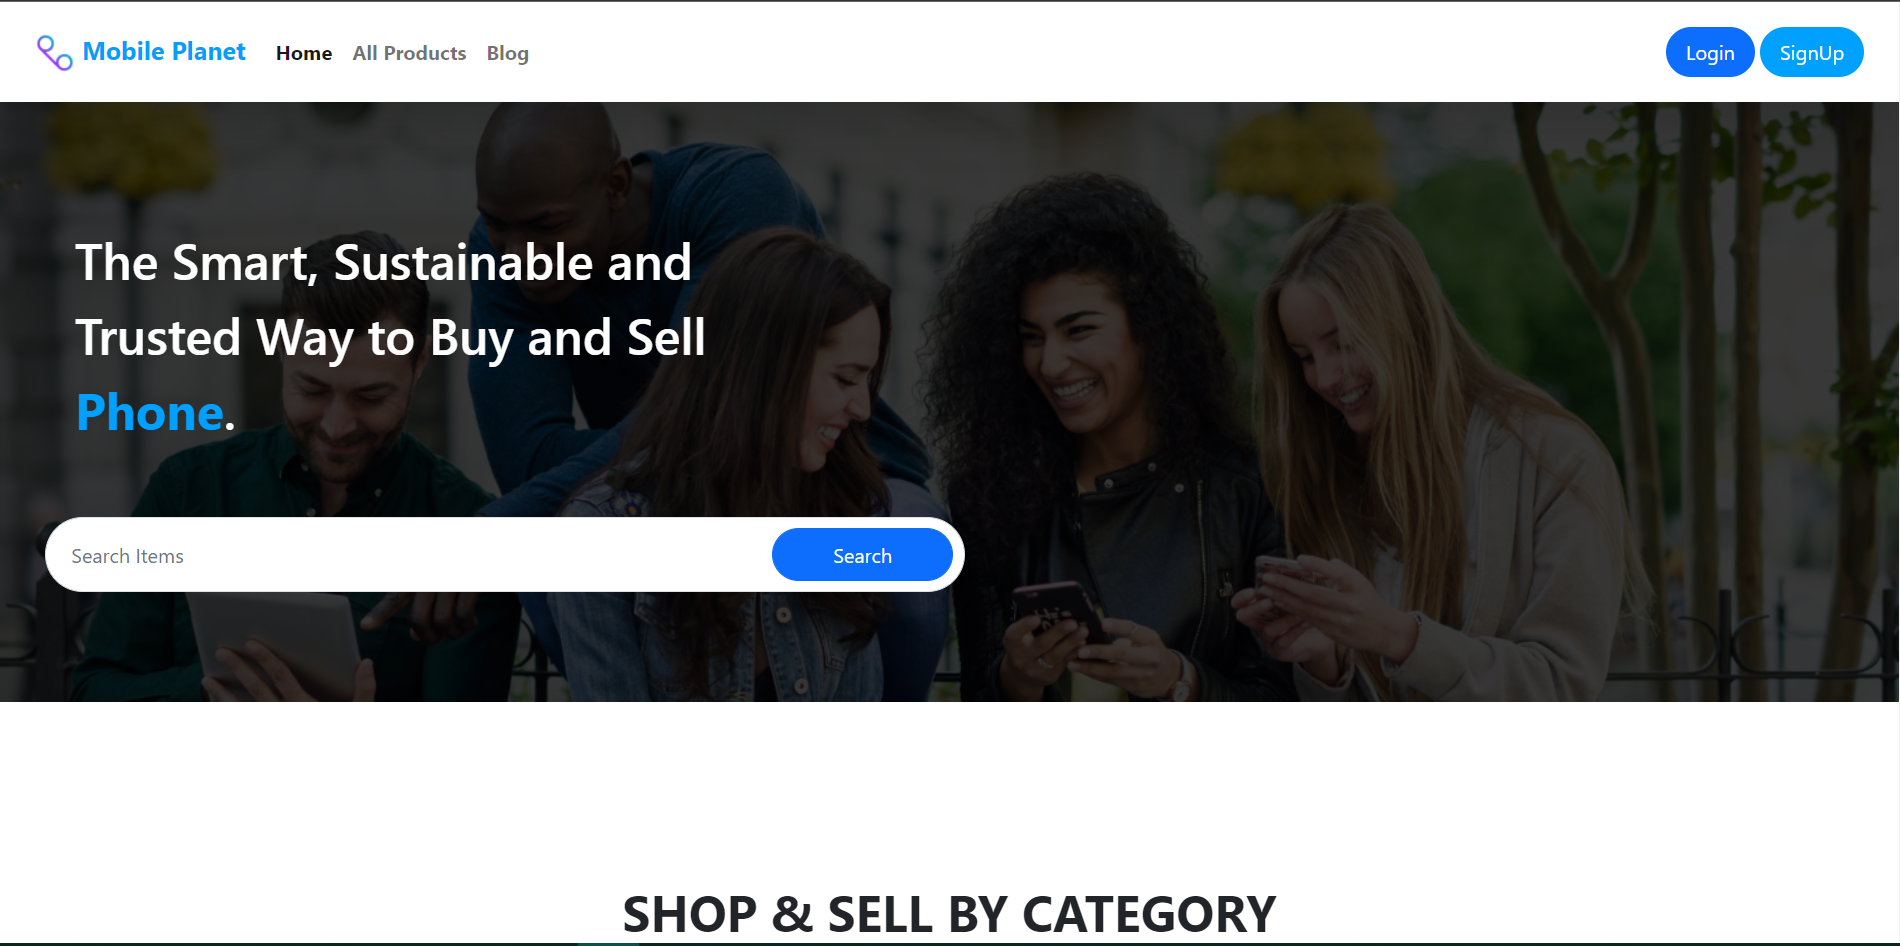
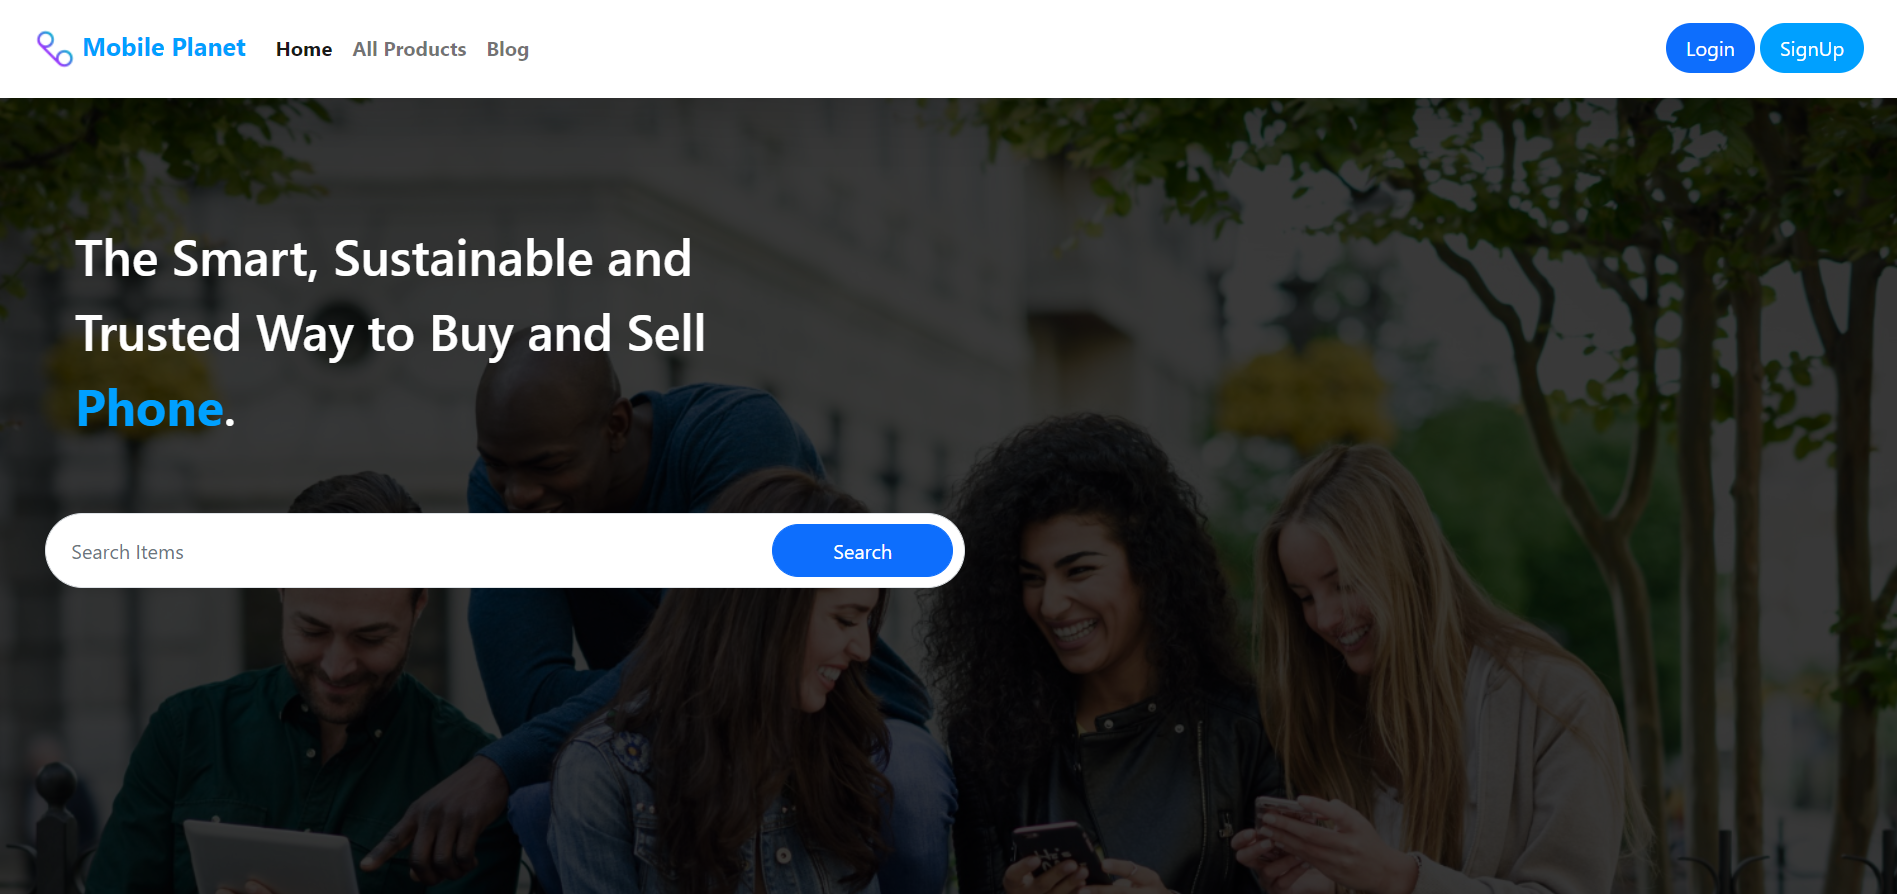
design and solved some issue
-downloads resume included
-design fixed

diff --git a/index.html b/index.html
@@ -28,11 +28,13 @@
         <link href="https://unpkg.com/aos@2.3.1/dist/aos.css" rel="stylesheet">
         <link href="https://cdn.jsdelivr.net/npm/bootstrap@5.2.3/dist/css/bootstrap.min.css" rel="stylesheet"
             integrity="sha384-rbsA2VBKQhggwzxH7pPCaAqO46MgnOM80zW1RWuH61DGLwZJEdK2Kadq2F9CUG65" crossorigin="anonymous">
+
+        <link rel="stylesheet" href="https://cdn.jsdelivr.net/npm/swiper@8/swiper-bundle.min.css" />
         <!-- Customized Bootstrap Stylesheet -->
         <link href="assets/css/style.css" rel="stylesheet">
     </head>
 
-    <body data-spy="scroll" data-target=".navbar" data-offset="51">
+    <body class="banner-2" data-spy="scroll" data-target=".navbar" data-offset="51">
         <!-- Navbar Start -->
         <nav class="navbar fixed-top shadow-sm navbar-expand-lg bg-light navbar-light py-3 py-lg-0 px-lg-5">
             <a href="index.html" class="navbar-brand ml-lg-3">
@@ -51,8 +53,8 @@
                     <a href="#blog" class="nav-item nav-link">Blog</a>
                     <a href="#contact" class="nav-item nav-link">Contact</a>
                 </div>
-                <a href="https://drive.google.com/file/d/1OmgMKl1av4iEBBBzHxZrmwiMk_CEa5ZL/view?usp=sharing"
-                    target="_blank" class="btn btn-outline-primary d-none d-lg-block">Download Resume</a>
+                <a href="https://drive.google.com/uc?export=download&id=1OmgMKl1av4iEBBBzHxZrmwiMk_CEa5ZL"
+                    class="btn btn-outline-primary d-none d-lg-block">Download Resume</a>
             </div>
         </nav>
         <!-- Navbar End -->
@@ -65,13 +67,13 @@
                     </div>
                     <div class=" col-lg-7 text-center text-lg-left" data-aos="fade-down" data-aos-duration="1000">
                         <h3 class="text-white font-weight-normal mb-3">I'm</h3>
-                        <h1 class="display-3 text-uppercase text-primary mb-2"
+                        <h1 class="display-3 text-uppercase text-warning mb-2"
                             style="-webkit-text-stroke: 2px #ffffff;">Pranto Chakraborty</h1>
                         <h1 class="typed-text-output d-inline font-weight-lighter text-white"></h1>
                         <div class="typed-text d-none">A Full-Stack Web Developer.....</div>
                         <div class="d-flex align-items-center justify-content-center justify-content-lg-start pt-5">
-                            <a href="https://drive.google.com/file/d/1OmgMKl1av4iEBBBzHxZrmwiMk_CEa5ZL/view?usp=sharing"
-                                target="_blank" class="btn btn-light border-primary mr-0 mr-lg-5">Download Resume</a>
+                            <a href="https://drive.google.com/uc?export=download&id=1OmgMKl1av4iEBBBzHxZrmwiMk_CEa5ZL"
+                                class="btn btn-light border-primary mr-0 mr-lg-5">Download Resume</a>
                             <a href="#contact" class="btn btn-outline-light d-none d-lg-block">Contact
                                 Me</a>
                         </div>
@@ -103,7 +105,7 @@
                                 of Greenwich
                             </strong> in 2021, which was a distance learning programme conducted by <strong
                                 class="text-primary">Daffodil
-                                International Academy</strong>. Well, I have been learning programming since my
+                                International Academy</strong>. Well, I have been programming since my
                             university life and
                             worked as a web developer (Internship) at <strong class="text-primary">MYBDHost</strong>
                             (April 2021 - June 2022). After that
@@ -127,8 +129,8 @@
                                 <h6>Current Position: <span class="text-secondary">Looking For Internship</span></h6>
                             </div>
                         </div>
-                        <a href="https://drive.google.com/file/d/1OmgMKl1av4iEBBBzHxZrmwiMk_CEa5ZL/view?usp=sharing"
-                            target="_blank" class="btn btn-outline-primary mr-4 mb-3 text-center">Download Resume</a>
+                        <a href="https://drive.google.com/uc?export=download&id=1OmgMKl1av4iEBBBzHxZrmwiMk_CEa5ZL"
+                            class="btn btn-outline-primary mr-4 mb-3 text-center">Download Resume</a>
                         <a href="#contact" class="btn btn-outline-primary mb-3">Contact Me</a>
                     </div>
                 </div>
@@ -473,19 +475,59 @@
 
         <!-- Project Modal -->
         <!-- Project Modal 1 -->
-        <div class="modal fade" id="project1" tabindex="-1" aria-labelledby="exampleModalLabel" aria-hidden="true">
-            <div class="modal-dialog">
+        <div class="modal fade rounded-lg" id="project1" tabindex="-1" data-bs-backdrop="static"
+            data-bs-keyboard="false" aria-labelledby="exampleModalLabel" aria-hidden="true">
+            <div class="modal-dialog modal-lg">
                 <div class="modal-content">
-                    <div class="modal-header">
-                        <h1 class="modal-title fs-5" id="exampleModalLabel">Modal title</h1>
-                        <button type="button" class="btn-close" data-bs-dismiss="modal" aria-label="Close"></button>
+                    <div class="modal-header bg-primary">
+                        <h1 class="modal-title fs-5 text-white" id="exampleModalLabel">Mobile Planet (Used product sell
+                            & buy service)</h1>
+                        <button type="button" class="btn-close " data-bs-dismiss="modal" aria-label="Close"><i
+                                class="fas fa-times text-white"></i></button>
                     </div>
                     <div class="modal-body">
-                        ng
+                        <div class="swiper mySwiper">
+                            <div class="swiper-wrapper">
+                                <div class="swiper-slide"><img src="assets/img/p-1.png" alt="" srcset=""></div>
+                                <div class="swiper-slide"><img src="assets/img/p-1-1.png" alt="" srcset=""></div>
+                                <div class="swiper-slide"><img src="assets/img/p-1-2.png" alt="" srcset=""></div>
+                            </div>
+                            <div class="swiper-button-next"></div>
+                            <div class="swiper-button-prev"></div>
+                            <div class="swiper-pagination"></div>
+                        </div>
+                        <div class="container">
+                            <div class="row">
+                                <div class="col-12 my-3">
+                                    <span class="badge bg-primary m-1">HTML</span>
+                                    <span class="badge bg-primary m-1">CSS</span>
+                                    <span class="badge bg-primary m-1">React</span>
+                                    <span class="badge bg-primary m-1">React-Bootstrap</span>
+                                    <span class="badge bg-primary m-1">MongoDB</span>
+                                    <span class="badge bg-primary m-1">Express JS</span>
+                                    <span class="badge bg-primary m-1">Rest API</span>
+                                    <span class="badge bg-primary m-1">Firebase</span>
+                                    <span class="badge bg-primary m-1">JWT</span>
+                                    <span class="badge bg-primary m-1">Stripe</span>
+                                    <span class="badge bg-primary m-1">Axios</span>
+                                    <span class="badge bg-primary m-1">React-router</span>
+                                    <span class="badge bg-primary m-1">React query</span>
+                                    <span class="badge bg-primary m-1">React hook form</span>
+                                </div>
+                                <hr />
+                                <div class="col-12 my-1">
+                                    <a href="" class="btn btn-outline-dark"><i class="fab fa-github"></i> Client
+                                        Side</a>
+                                    <a href="" class="btn btn-outline-dark"><i class="fab fa-github"></i> Server
+                                        Side</a>
+                                    <a href="" class="btn btn-outline-dark"><i class="fas fa-external-link-alt"></i>
+                                        Live Site</a>
+                                </div>
+                            </div>
+                        </div>
                     </div>
                     <div class="modal-footer">
                         <button type="button" class="btn btn-secondary" data-bs-dismiss="modal">Close</button>
-                        <button type="button" class="btn btn-primary">Save changes</button>
                     </div>
                 </div>
             </div>
@@ -499,7 +541,7 @@
                         <button type="button" class="btn-close" data-bs-dismiss="modal" aria-label="Close"></button>
                     </div>
                     <div class="modal-body">
-                        ng
+
                     </div>
                     <div class="modal-footer">
                         <button type="button" class="btn btn-secondary" data-bs-dismiss="modal">Close</button>
@@ -586,12 +628,14 @@
         <div class="container-fluid bg-primary text-white mt-5 py-5 px-sm-3 px-md-5">
             <div class="container text-center py-5">
                 <div class="d-flex justify-content-center mb-4">
-                    <a class="btn btn-light btn-social mr-2" href="https://twitter.com/Pranto39"><i
-                            class="fab fa-twitter"></i></a>
+                    <a class="btn btn-light btn-social mr-2" href="https://wa.me/01748352334"><i
+                            class="fab fa-whatsapp"></i></a>
                     <a class="btn btn-light btn-social mr-2" href="https://www.linkedin.com/in/pranto-chakraborty/"><i
                             class="fab fa-linkedin-in"></i></a>
                     <a class="btn btn-light btn-social mr-2" href="https://github.com/prantoc"><i
                             class="fab fa-github"></i></a>
+                    <a class="btn btn-light btn-social mr-2" href="https://twitter.com/Pranto39"><i
+                            class="fab fa-twitter"></i></a>
                 </div>
                 <!-- <div class="d-flex justify-content-center mb-3">
                     <a class="text-white" href="#">Privacy</a>
@@ -628,12 +672,36 @@
         <script src="assets/lib/isotope/isotope.pkgd.min.js"></script>
         <script src="assets/lib/lightbox/js/lightbox.min.js"></script>
         <script src="https://unpkg.com/aos@2.3.1/dist/aos.js"></script>
+        <!-- Swiper JS -->
+        <!-- <script src="https://cdn.jsdelivr.net/npm/swiper/swiper-bundle.min.js"></script> -->
+        <script src="https://cdn.jsdelivr.net/npm/swiper@8/swiper-bundle.min.js"></script>
         <!-- Contact Javascript File -->
         <script src="assets/mail/jqBootstrapValidation.min.js"></script>
         <script src="assets/mail/contact.js"></script>
 
         <!-- Template Javascript -->
         <script src="assets/js/main.js"></script>
+
+
+        <!-- Initialize Swiper -->
+        <script>
+            var swiper = new Swiper(".mySwiper", {
+                slidesPerView: 1,
+                spaceBetween: 30,
+                keyboard: {
+                    enabled: true,
+                },
+                pagination: {
+                    el: ".swiper-pagination",
+                    clickable: true,
+                },
+                navigation: {
+                    nextEl: ".swiper-button-next",
+                    prevEl: ".swiper-button-prev",
+                },
+            });
+        </script>
+
         <script>
             AOS.init();
         </script>

diff --git a/assets/css/style.css b/assets/css/style.css
@@ -11192,15 +11192,13 @@ h6,
   background-color: #000000c4;
 }
 
-.bg-layer {
-  background-color: #000000c4;
-  width: fit-content;
-}
-
 .banner-2 {
   background-image: url('../img/bg/bg2.gif');
-  /* background-repeat: space; */
+}
 
+.btn-close {
+  background: none !important;
+  color: #fff !important;
 }
 
 @media (max-width: 868px) {
@@ -11219,4 +11217,36 @@ h6,
   .banner-bg {
     background: #2c1368;
   }
+}
+
+.swiper {
+  width: 100%;
+  height: 100%;
+}
+
+.swiper-slide {
+  text-align: center;
+  font-size: 18px;
+  background: #fff;
+
+  /* Center slide text vertically */
+  display: -webkit-box;
+  display: -ms-flexbox;
+  display: -webkit-flex;
+  display: flex;
+  -webkit-box-pack: center;
+  -ms-flex-pack: center;
+  -webkit-justify-content: center;
+  justify-content: center;
+  -webkit-box-align: center;
+  -ms-flex-align: center;
+  -webkit-align-items: center;
+  align-items: center;
+}
+
+.swiper-slide img {
+  display: block;
+  width: 100%;
+  height: 100%;
+  object-fit: cover;
 }
